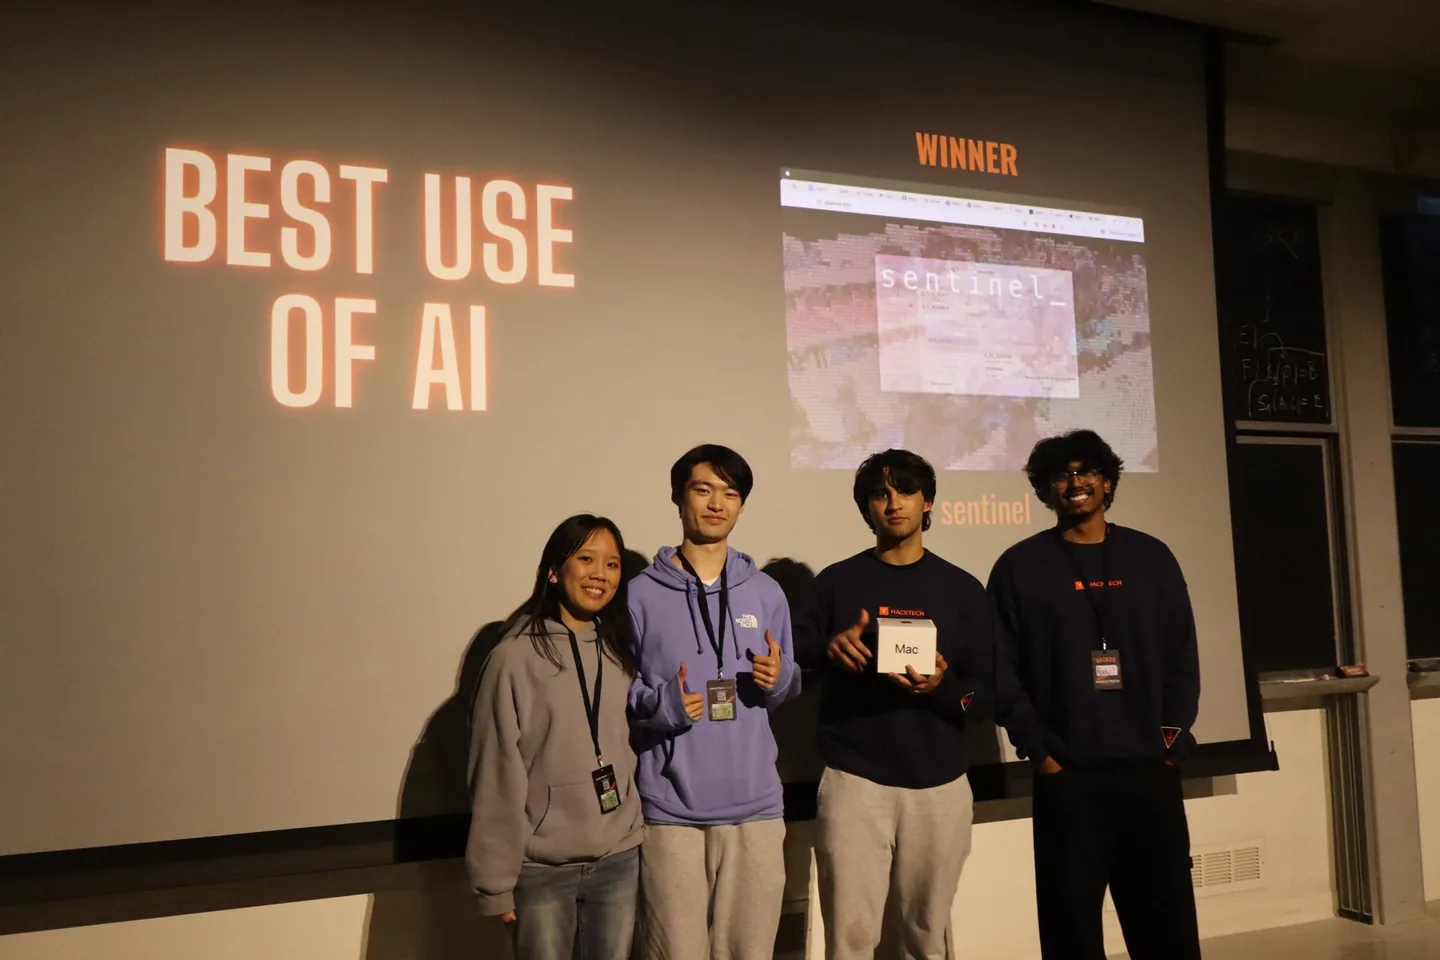
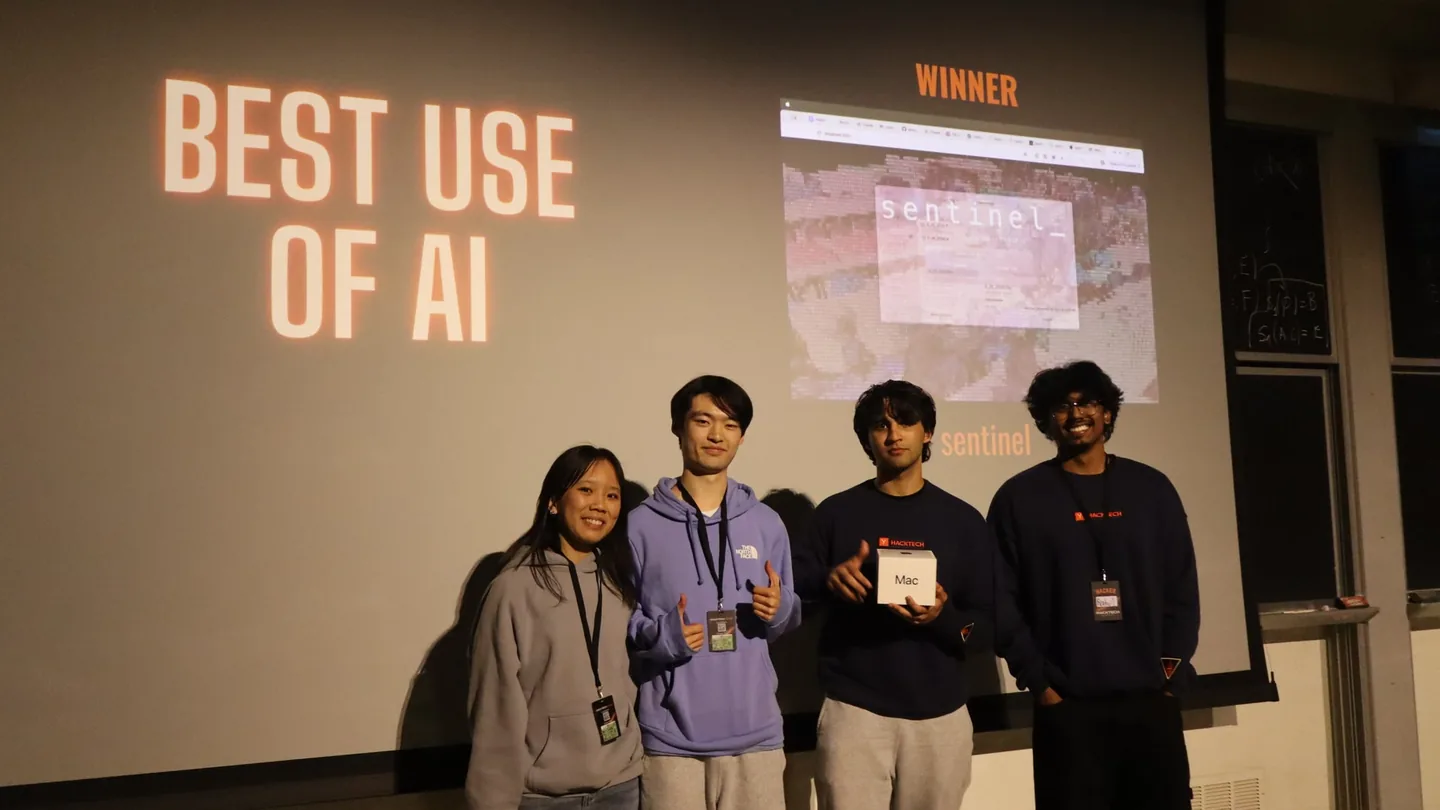
Crop award photos to the main gallery's widescreen format

diff --git a/src/home/Tracks.tsx b/src/home/Tracks.tsx
@@ -120,7 +120,7 @@ export function Tracks() {
             Project. Whichever track you enter, you can also opt into one additional Hacktech award
             by choosing Best Use of AI, Best UI/UX, or Most Creative Tech Stack.
           </p>
-          <Gallery label="Hacktech 2026 award winners" photos={winnerPhotos} width={1440} height={960} />
+          <Gallery label="Hacktech 2026 award winners" photos={winnerPhotos} width={1440} height={810} />
           <p>
             Sponsors often offer separate tracks and awards you can compete in. We’ll announce any
             confirmed for 2027 soon, and each sponsor will manage and judge its own category.
